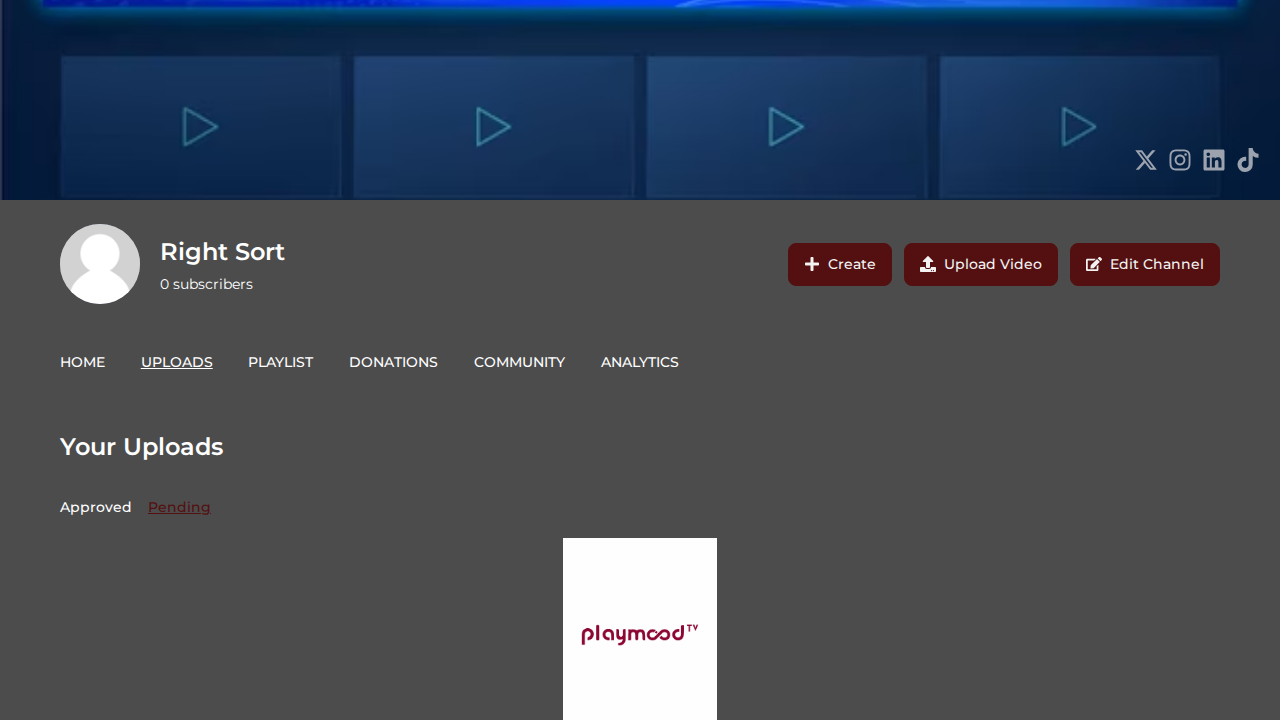
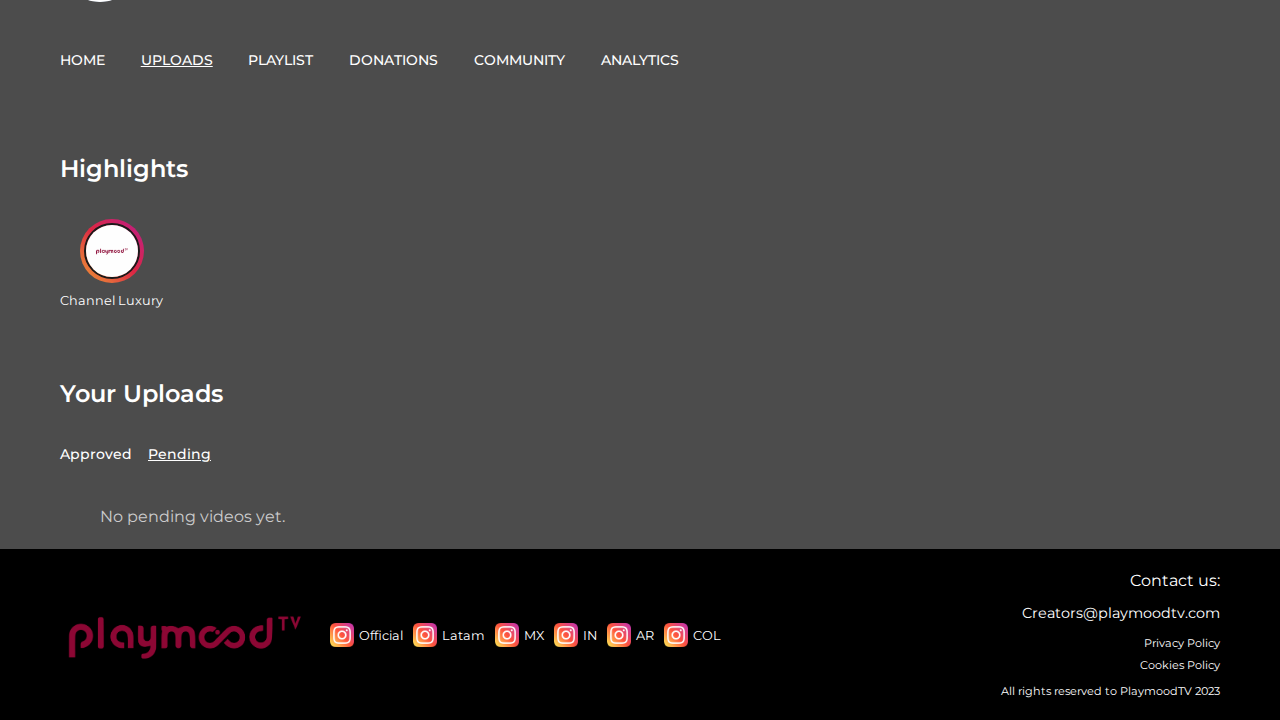
Fix: Adjust creator page slider and align content
This commit addresses two issues on the creator page:

1.  **Slider Duplication Bug**: The video slider for "Approved," "Pending," and "Playlist" content was duplicating items when there were fewer videos than the number of slides to show. This has been fixed by dynamically setting the `infinite` property of the `react-slick` slider to `false` in such cases.

2.  **Content Alignment**: The content within the slider sections and the "No videos" message were center-aligned. The styling has been updated to ensure all content is left-aligned for a more consistent UI.

These changes prevent the slider from misbehaving with a small number of items and improve the overall layout of the creator page.

diff --git a/src/styles/CreatorPageStyles.jsx b/src/styles/CreatorPageStyles.jsx
@@ -336,6 +336,8 @@ export const StyledSliderContainer = styled.div`
   width: 100%;
   padding: 0 20px;
   margin: 0 auto;
+  display: flex;
+  justify-content: flex-start;
 
   .slick-slider {
     position: relative;
@@ -820,7 +822,7 @@ export const LoadingMessage = styled.div`
 
 export const NoPostsMessage = styled.div`
   color: #ccc;
-  text-align: center;
+  text-align: left;
   font-size: 1rem;
   padding: 20px;
 
